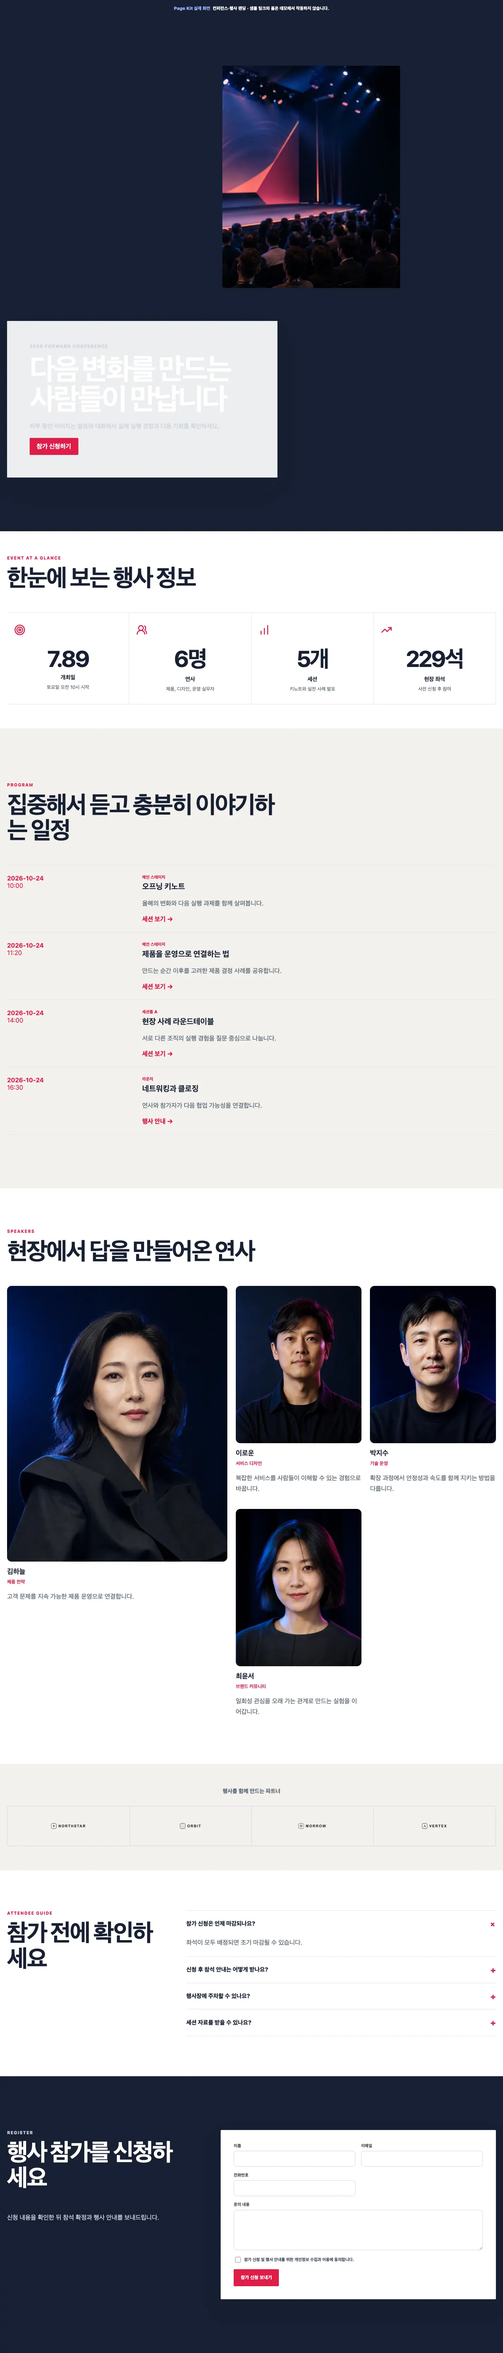
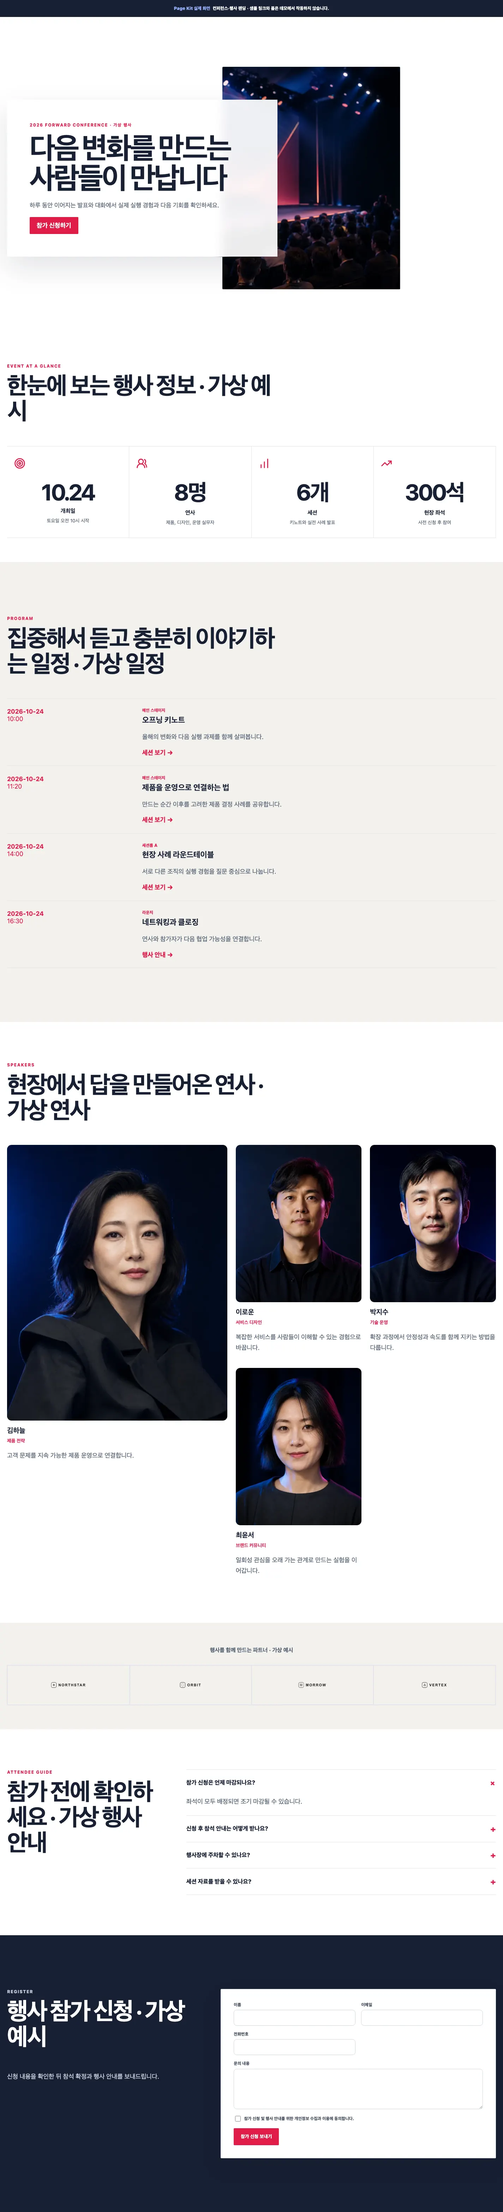
task(phase7-f-pagekits-scoped-20260901): submit worktree changes

diff --git a/resources/store/dist/demos/event-launch.html b/resources/store/dist/demos/event-launch.html
@@ -1,9 +1,9 @@
 <div class="g7pb-document-theme g7pb-theme-mode-light g7pb-theme-palette-rose g7pb-theme-font-modern g7pb-theme-radius-sharp g7pb-theme-width-wide g7pb-theme-scale-large">
-<section data-block-id="84000000-0000-4000-8000-000000000002" data-g7pb-motion="parallax-soft" data-g7pb-motion-intensity="normal" data-g7pb-motion-trigger="once" data-g7pb-motion-stagger="60" class="g7pb-block g7pb-hero-split g7pb-hero-split--left g7pb-hero-split--layout-overlap g7pb-surface--contrast g7pb-spacing--spacious g7pb-container-width--inherit g7pb-container-align--center g7pb-container-height--auto g7pb-container-vertical--start" data-testid="page-builder-rendered-block" data-block-type="hero-split"><div class="g7pb-hero-split__copy"><p class="g7pb-section-eyebrow">2026 FORWARD CONFERENCE</p><h1>다음 변화를 만드는 사람들이 만납니다</h1><p class="g7pb-hero-split__body">하루 동안 이어지는 발표와 대화에서 실제 실행 경험과 다음 기회를 확인하세요.</p><a class="g7pb-button g7pb-button--primary" href="#demo-action">참가 신청하기</a></div><figure class="g7pb-hero-split__media"><img class="g7pb-hero-split__image" src="/modules/jiwonpapa-page_builder/store/previews/event-launch-hero-event.webp" alt="발표를 앞둔 연사와 청중이 있는 현대적인 컨퍼런스 현장" loading="eager"></figure></section>
-<section data-block-id="84000000-0000-4000-8000-000000000003" data-g7pb-motion="counter" data-g7pb-motion-intensity="normal" data-g7pb-motion-trigger="once" data-g7pb-motion-stagger="60" class="g7pb-block g7pb-stats g7pb-stats--layout-strip g7pb-surface--default g7pb-spacing--compact g7pb-container-width--inherit g7pb-container-align--center g7pb-container-height--auto g7pb-container-vertical--start" data-testid="page-builder-rendered-block" data-block-type="stats"><header class="g7pb-section-heading"><p class="g7pb-section-eyebrow">EVENT AT A GLANCE</p><h2>한눈에 보는 행사 정보</h2></header><div class="g7pb-stats__grid"><article><span class="g7pb-stats__icon g7pb-stats__icon--target" data-g7pb-runtime-icon data-g7pb-icon-markup="&lt;circle cx=&quot;12&quot; cy=&quot;12&quot; r=&quot;10&quot;&gt;&lt;/circle&gt;&lt;circle cx=&quot;12&quot; cy=&quot;12&quot; r=&quot;6&quot;&gt;&lt;/circle&gt;&lt;circle cx=&quot;12&quot; cy=&quot;12&quot; r=&quot;2&quot;&gt;&lt;/circle&gt;" aria-hidden="true"></span><strong>10.24</strong><h3>개최일</h3><p>토요일 오전 10시 시작</p></article><article><span class="g7pb-stats__icon g7pb-stats__icon--users" data-g7pb-runtime-icon data-g7pb-icon-markup="&lt;path d=&quot;M18 21a8 8 0 0 0-16 0&quot;&gt;&lt;/path&gt;&lt;circle cx=&quot;10&quot; cy=&quot;8&quot; r=&quot;5&quot;&gt;&lt;/circle&gt;&lt;path d=&quot;M22 20c0-3.37-2-6.5-4-8a5 5 0 0 0-.45-8.3&quot;&gt;&lt;/path&gt;" aria-hidden="true"></span><strong>8명</strong><h3>연사</h3><p>제품, 디자인, 운영 실무자</p></article><article><span class="g7pb-stats__icon g7pb-stats__icon--chart" data-g7pb-runtime-icon data-g7pb-icon-markup="&lt;path d=&quot;M5 21v-6&quot;&gt;&lt;/path&gt;&lt;path d=&quot;M12 21V9&quot;&gt;&lt;/path&gt;&lt;path d=&quot;M19 21V3&quot;&gt;&lt;/path&gt;" aria-hidden="true"></span><strong>6개</strong><h3>세션</h3><p>키노트와 실전 사례 발표</p></article><article><span class="g7pb-stats__icon g7pb-stats__icon--trend" data-g7pb-runtime-icon data-g7pb-icon-markup="&lt;path d=&quot;M16 7h6v6&quot;&gt;&lt;/path&gt;&lt;path d=&quot;m22 7-8.5 8.5-5-5L2 17&quot;&gt;&lt;/path&gt;" aria-hidden="true"></span><strong>300석</strong><h3>현장 좌석</h3><p>사전 신청 후 참여</p></article></div></section>
-<section data-block-id="84000000-0000-4000-8000-000000000004" data-g7pb-motion="stagger" data-g7pb-motion-intensity="normal" data-g7pb-motion-trigger="once" data-g7pb-motion-stagger="100" class="g7pb-block g7pb-events g7pb-events--agenda g7pb-surface--soft g7pb-spacing--spacious g7pb-container-width--inherit g7pb-container-align--center g7pb-container-height--auto g7pb-container-vertical--start" data-testid="page-builder-rendered-block" data-block-type="event-schedule"><header class="g7pb-section-heading"><p class="g7pb-section-eyebrow">PROGRAM</p><h2>집중해서 듣고 충분히 이야기하는 일정</h2></header><ol><li><time datetime="2026-10-24T10:00"><strong>2026-10-24</strong><span>10:00</span></time><article><p class="g7pb-events__location">메인 스테이지</p><h3>오프닝 키노트</h3><p>올해의 변화와 다음 실행 과제를 함께 살펴봅니다.</p><a href="#demo-action">세션 보기 <span aria-hidden="true">→</span></a></article></li><li><time datetime="2026-10-24T11:20"><strong>2026-10-24</strong><span>11:20</span></time><article><p class="g7pb-events__location">메인 스테이지</p><h3>제품을 운영으로 연결하는 법</h3><p>만드는 순간 이후를 고려한 제품 결정 사례를 공유합니다.</p><a href="#demo-action">세션 보기 <span aria-hidden="true">→</span></a></article></li><li><time datetime="2026-10-24T14:00"><strong>2026-10-24</strong><span>14:00</span></time><article><p class="g7pb-events__location">세션룸 A</p><h3>현장 사례 라운드테이블</h3><p>서로 다른 조직의 실행 경험을 질문 중심으로 나눕니다.</p><a href="#demo-action">세션 보기 <span aria-hidden="true">→</span></a></article></li><li><time datetime="2026-10-24T16:30"><strong>2026-10-24</strong><span>16:30</span></time><article><p class="g7pb-events__location">라운지</p><h3>네트워킹과 클로징</h3><p>연사와 참가자가 다음 협업 가능성을 연결합니다.</p><a href="#demo-action">행사 안내 <span aria-hidden="true">→</span></a></article></li></ol></section>
-<section data-block-id="84000000-0000-4000-8000-000000000005" data-g7pb-motion="stagger" data-g7pb-motion-intensity="subtle" data-g7pb-motion-trigger="once" data-g7pb-motion-stagger="60" class="g7pb-block g7pb-team g7pb-team--layout-featured g7pb-surface--default g7pb-spacing--normal g7pb-container-width--inherit g7pb-container-align--center g7pb-container-height--auto g7pb-container-vertical--start" data-testid="page-builder-rendered-block" data-block-type="team"><header class="g7pb-section-heading"><p class="g7pb-section-eyebrow">SPEAKERS</p><h2>현장에서 답을 만들어온 연사</h2></header><div class="g7pb-team__grid"><article><figure><img class="g7pb-team__image" src="/modules/jiwonpapa-page_builder/store/previews/event-launch-speaker-founder.webp" alt="제품 전략 연사 김하늘" loading="lazy"></figure><h3>김하늘</h3><strong>제품 전략</strong><p>고객 문제를 지속 가능한 제품 운영으로 연결합니다.</p></article><article><figure><img class="g7pb-team__image" src="/modules/jiwonpapa-page_builder/store/previews/event-launch-speaker-design.webp" alt="서비스 디자인 연사 이로운" loading="lazy"></figure><h3>이로운</h3><strong>서비스 디자인</strong><p>복잡한 서비스를 사람들이 이해할 수 있는 경험으로 바꿉니다.</p></article><article><figure><img class="g7pb-team__image" src="/modules/jiwonpapa-page_builder/store/previews/event-launch-speaker-platform.webp" alt="기술 운영 연사 박지수" loading="lazy"></figure><h3>박지수</h3><strong>기술 운영</strong><p>확장 과정에서 안정성과 속도를 함께 지키는 방법을 다룹니다.</p></article><article><figure><img class="g7pb-team__image" src="/modules/jiwonpapa-page_builder/store/previews/event-launch-speaker-creative.webp" alt="브랜드 커뮤니티 연사 최윤서" loading="lazy"></figure><h3>최윤서</h3><strong>브랜드 커뮤니티</strong><p>일회성 관심을 오래 가는 관계로 만드는 실험을 이어갑니다.</p></article></div></section>
-<section data-block-id="84000000-0000-4000-8000-000000000006" data-g7pb-motion="stagger" data-g7pb-motion-intensity="subtle" data-g7pb-motion-trigger="once" data-g7pb-motion-stagger="60" class="g7pb-block g7pb-logo-cloud g7pb-logo-cloud--layout-grid g7pb-surface--soft g7pb-spacing--compact g7pb-container-width--inherit g7pb-container-align--center g7pb-container-height--auto g7pb-container-vertical--start" data-testid="page-builder-rendered-block" data-block-type="logo-cloud"><h2>행사를 함께 만드는 파트너</h2><ul><li><img class="g7pb-logo-cloud__image" src="/modules/jiwonpapa-page_builder/store/previews/event-launch-partner-northstar.png" alt="샘플 파트너 Northstar" loading="lazy"></li><li><img class="g7pb-logo-cloud__image" src="/modules/jiwonpapa-page_builder/store/previews/event-launch-partner-orbit.png" alt="샘플 파트너 Orbit" loading="lazy"></li><li><img class="g7pb-logo-cloud__image" src="/modules/jiwonpapa-page_builder/store/previews/event-launch-partner-morrow.png" alt="샘플 파트너 Morrow" loading="lazy"></li><li><img class="g7pb-logo-cloud__image" src="/modules/jiwonpapa-page_builder/store/previews/event-launch-partner-vertex.png" alt="샘플 파트너 Vertex" loading="lazy"></li></ul></section>
-<section data-block-id="84000000-0000-4000-8000-000000000007" data-g7pb-motion="reveal" data-g7pb-motion-intensity="subtle" data-g7pb-motion-trigger="once" data-g7pb-motion-stagger="100" class="g7pb-block g7pb-faq g7pb-surface--default g7pb-spacing--normal g7pb-container-width--inherit g7pb-container-align--center g7pb-container-height--auto g7pb-container-vertical--start" data-testid="page-builder-rendered-block" data-block-type="faq-accordion" data-g7pb-accordion data-g7pb-accordion-behavior="single"><header class="g7pb-section-heading"><p class="g7pb-section-eyebrow">ATTENDEE GUIDE</p><h2>참가 전에 확인하세요</h2></header><div class="g7pb-faq__items"><div class="g7pb-faq__item" data-g7pb-accordion-item data-g7pb-open="true"><div class="g7pb-faq__trigger" role="button" tabindex="0" data-g7pb-accordion-trigger aria-expanded="true"><span>참가 신청은 언제 마감되나요?</span><i aria-hidden="true">+</i></div><div class="g7pb-faq__answer" data-g7pb-accordion-panel><p>좌석이 모두 배정되면 조기 마감될 수 있습니다.</p></div></div><div class="g7pb-faq__item" data-g7pb-accordion-item data-g7pb-open="false"><div class="g7pb-faq__trigger" role="button" tabindex="0" data-g7pb-accordion-trigger aria-expanded="false"><span>신청 후 참석 안내는 어떻게 받나요?</span><i aria-hidden="true">+</i></div><div class="g7pb-faq__answer" data-g7pb-accordion-panel><p>신청 시 남긴 연락처로 확정 안내와 행사 준비 사항을 전달합니다.</p></div></div><div class="g7pb-faq__item" data-g7pb-accordion-item data-g7pb-open="false"><div class="g7pb-faq__trigger" role="button" tabindex="0" data-g7pb-accordion-trigger aria-expanded="false"><span>행사장에 주차할 수 있나요?</span><i aria-hidden="true">+</i></div><div class="g7pb-faq__answer" data-g7pb-accordion-panel><p>주차 공간이 제한되어 대중교통 이용을 권장합니다.</p></div></div><div class="g7pb-faq__item" data-g7pb-accordion-item data-g7pb-open="false"><div class="g7pb-faq__trigger" role="button" tabindex="0" data-g7pb-accordion-trigger aria-expanded="false"><span>세션 자료를 받을 수 있나요?</span><i aria-hidden="true">+</i></div><div class="g7pb-faq__answer" data-g7pb-accordion-panel><p>공개에 동의한 발표 자료는 행사 종료 후 참가자에게 안내합니다.</p></div></div></div></section>
-<section data-block-id="84000000-0000-4000-8000-000000000008" data-g7pb-motion="reveal" data-g7pb-motion-intensity="normal" data-g7pb-motion-trigger="once" data-g7pb-motion-stagger="60" class="g7pb-block g7pb-inquiry g7pb-surface--contrast g7pb-spacing--spacious g7pb-container-width--inherit g7pb-container-align--center g7pb-container-height--auto g7pb-container-vertical--start" data-testid="page-builder-rendered-block" data-block-type="inquiry-form"><div class="g7pb-inquiry__intro"><header class="g7pb-section-heading"><p class="g7pb-section-eyebrow">REGISTER</p><h2>행사 참가를 신청하세요</h2></header><p>신청 내용을 확인한 뒤 참석 확정과 행사 안내를 보내드립니다.</p></div><div class="g7pb-inquiry-form" data-g7pb-inquiry-host data-g7pb-demo-form data-g7pb-form-action="/pages/event-launch/inquiries" data-g7pb-form-kind="application" data-g7pb-success-message="참가 신청이 접수되었습니다. 확인 후 안내드리겠습니다." data-g7pb-privacy-label="참가 신청 및 행사 안내를 위한 개인정보 수집과 이용에 동의합니다." data-g7pb-submit-label="참가 신청 보내기" data-g7pb-show-phone="true" data-g7pb-show-subject="false"><span data-g7pb-form-control="input" data-g7pb-control-type="hidden" data-g7pb-control-name="form_kind" data-g7pb-control-value="application"></span><span data-g7pb-form-control="input" data-g7pb-control-type="hidden" data-g7pb-control-name="block_instance_id"></span><span data-g7pb-form-control="input" data-g7pb-control-type="hidden" data-g7pb-control-name="started_at"></span><label class="g7pb-inquiry-form__honeypot" aria-hidden="true"><span>웹사이트</span><span data-g7pb-form-control="input" data-g7pb-control-type="text" data-g7pb-control-name="website" data-g7pb-control-tabindex="-1" data-g7pb-control-autocomplete="off"></span></label><label><span>이름</span><span data-g7pb-form-control="input" data-g7pb-control-type="text" data-g7pb-control-name="name" data-g7pb-control-maxlength="120" data-g7pb-control-autocomplete="name" data-g7pb-control-required="true"></span></label><label><span>이메일</span><span data-g7pb-form-control="input" data-g7pb-control-type="email" data-g7pb-control-name="email" data-g7pb-control-maxlength="320" data-g7pb-control-autocomplete="email" data-g7pb-control-required="true"></span></label><label><span>전화번호</span><span data-g7pb-form-control="input" data-g7pb-control-type="tel" data-g7pb-control-name="phone" data-g7pb-control-maxlength="40" data-g7pb-control-autocomplete="tel"></span></label><label class="g7pb-inquiry-form__wide"><span>문의 내용</span><span data-g7pb-form-control="textarea" data-g7pb-control-name="message" data-g7pb-control-maxlength="5000" data-g7pb-control-rows="6" data-g7pb-control-required="true"></span></label><label class="g7pb-inquiry-form__consent"><span data-g7pb-form-control="input" data-g7pb-control-type="checkbox" data-g7pb-control-name="privacy" data-g7pb-control-value="1" data-g7pb-control-required="true"></span><span data-g7pb-privacy-copy>참가 신청 및 행사 안내를 위한 개인정보 수집과 이용에 동의합니다.</span></label><div class="g7pb-inquiry-form__footer"><span data-g7pb-form-control="button" data-g7pb-control-type="submit" data-g7pb-submit-copy>참가 신청 보내기</span><p role="status" aria-live="polite" data-g7pb-form-status></p></div></div></section>
+<section data-block-id="84000000-0000-4000-8000-000000000002" data-g7pb-motion="parallax-soft" data-g7pb-motion-intensity="normal" data-g7pb-motion-trigger="once" data-g7pb-motion-stagger="60" class="g7pb-block g7pb-hero-split g7pb-hero-split--left g7pb-hero-split--layout-overlap g7pb-surface--default g7pb-spacing--spacious g7pb-container-width--inherit g7pb-container-align--center g7pb-container-height--auto g7pb-container-vertical--start" data-testid="page-builder-rendered-block" data-block-type="hero-split"><div class="g7pb-hero-split__copy"><p class="g7pb-section-eyebrow">2026 FORWARD CONFERENCE · 가상 행사</p><h1>다음 변화를 만드는 사람들이 만납니다</h1><p class="g7pb-hero-split__body">하루 동안 이어지는 발표와 대화에서 실제 실행 경험과 다음 기회를 확인하세요.</p><a class="g7pb-button g7pb-button--primary" href="/contact?event=forward-2026">참가 신청하기</a></div><figure class="g7pb-hero-split__media"><img class="g7pb-hero-split__image" src="/modules/jiwonpapa-page_builder/store/previews/event-launch-hero-event.webp" alt="발표를 앞둔 연사와 청중이 있는 현대적인 컨퍼런스 현장" loading="eager"></figure></section>
+<section data-block-id="84000000-0000-4000-8000-000000000003" data-g7pb-motion="reveal" data-g7pb-motion-intensity="normal" data-g7pb-motion-trigger="once" data-g7pb-motion-stagger="60" class="g7pb-block g7pb-stats g7pb-stats--layout-strip g7pb-surface--default g7pb-spacing--compact g7pb-container-width--inherit g7pb-container-align--center g7pb-container-height--auto g7pb-container-vertical--start" data-testid="page-builder-rendered-block" data-block-type="stats"><header class="g7pb-section-heading"><p class="g7pb-section-eyebrow">EVENT AT A GLANCE</p><h2>한눈에 보는 행사 정보 · 가상 예시</h2></header><div class="g7pb-stats__grid"><article><span class="g7pb-stats__icon g7pb-stats__icon--target" data-g7pb-runtime-icon data-g7pb-icon-markup="&lt;circle cx=&quot;12&quot; cy=&quot;12&quot; r=&quot;10&quot;&gt;&lt;/circle&gt;&lt;circle cx=&quot;12&quot; cy=&quot;12&quot; r=&quot;6&quot;&gt;&lt;/circle&gt;&lt;circle cx=&quot;12&quot; cy=&quot;12&quot; r=&quot;2&quot;&gt;&lt;/circle&gt;" aria-hidden="true"></span><strong>10.24</strong><h3>개최일</h3><p>토요일 오전 10시 시작</p></article><article><span class="g7pb-stats__icon g7pb-stats__icon--users" data-g7pb-runtime-icon data-g7pb-icon-markup="&lt;path d=&quot;M18 21a8 8 0 0 0-16 0&quot;&gt;&lt;/path&gt;&lt;circle cx=&quot;10&quot; cy=&quot;8&quot; r=&quot;5&quot;&gt;&lt;/circle&gt;&lt;path d=&quot;M22 20c0-3.37-2-6.5-4-8a5 5 0 0 0-.45-8.3&quot;&gt;&lt;/path&gt;" aria-hidden="true"></span><strong>8명</strong><h3>연사</h3><p>제품, 디자인, 운영 실무자</p></article><article><span class="g7pb-stats__icon g7pb-stats__icon--chart" data-g7pb-runtime-icon data-g7pb-icon-markup="&lt;path d=&quot;M5 21v-6&quot;&gt;&lt;/path&gt;&lt;path d=&quot;M12 21V9&quot;&gt;&lt;/path&gt;&lt;path d=&quot;M19 21V3&quot;&gt;&lt;/path&gt;" aria-hidden="true"></span><strong>6개</strong><h3>세션</h3><p>키노트와 실전 사례 발표</p></article><article><span class="g7pb-stats__icon g7pb-stats__icon--trend" data-g7pb-runtime-icon data-g7pb-icon-markup="&lt;path d=&quot;M16 7h6v6&quot;&gt;&lt;/path&gt;&lt;path d=&quot;m22 7-8.5 8.5-5-5L2 17&quot;&gt;&lt;/path&gt;" aria-hidden="true"></span><strong>300석</strong><h3>현장 좌석</h3><p>사전 신청 후 참여</p></article></div></section>
+<section data-block-id="84000000-0000-4000-8000-000000000004" data-g7pb-motion="stagger" data-g7pb-motion-intensity="normal" data-g7pb-motion-trigger="once" data-g7pb-motion-stagger="100" class="g7pb-block g7pb-events g7pb-events--agenda g7pb-surface--soft g7pb-spacing--spacious g7pb-container-width--inherit g7pb-container-align--center g7pb-container-height--auto g7pb-container-vertical--start" data-testid="page-builder-rendered-block" data-block-type="event-schedule"><header class="g7pb-section-heading"><p class="g7pb-section-eyebrow">PROGRAM</p><h2>집중해서 듣고 충분히 이야기하는 일정 · 가상 일정</h2></header><ol><li><time datetime="2026-10-24T10:00"><strong>2026-10-24</strong><span>10:00</span></time><article><p class="g7pb-events__location">메인 스테이지</p><h3>오프닝 키노트</h3><p>올해의 변화와 다음 실행 과제를 함께 살펴봅니다.</p><a href="/contact?event=forward-2026&amp;session=opening">세션 보기 <span aria-hidden="true">→</span></a></article></li><li><time datetime="2026-10-24T11:20"><strong>2026-10-24</strong><span>11:20</span></time><article><p class="g7pb-events__location">메인 스테이지</p><h3>제품을 운영으로 연결하는 법</h3><p>만드는 순간 이후를 고려한 제품 결정 사례를 공유합니다.</p><a href="/contact?event=forward-2026&amp;session=operations">세션 보기 <span aria-hidden="true">→</span></a></article></li><li><time datetime="2026-10-24T14:00"><strong>2026-10-24</strong><span>14:00</span></time><article><p class="g7pb-events__location">세션룸 A</p><h3>현장 사례 라운드테이블</h3><p>서로 다른 조직의 실행 경험을 질문 중심으로 나눕니다.</p><a href="/contact?event=forward-2026&amp;session=roundtable">세션 보기 <span aria-hidden="true">→</span></a></article></li><li><time datetime="2026-10-24T16:30"><strong>2026-10-24</strong><span>16:30</span></time><article><p class="g7pb-events__location">라운지</p><h3>네트워킹과 클로징</h3><p>연사와 참가자가 다음 협업 가능성을 연결합니다.</p><a href="/contact?event=forward-2026&amp;session=closing">행사 안내 <span aria-hidden="true">→</span></a></article></li></ol></section>
+<section data-block-id="84000000-0000-4000-8000-000000000005" data-g7pb-motion="stagger" data-g7pb-motion-intensity="subtle" data-g7pb-motion-trigger="once" data-g7pb-motion-stagger="60" class="g7pb-block g7pb-team g7pb-team--layout-featured g7pb-surface--default g7pb-spacing--normal g7pb-container-width--inherit g7pb-container-align--center g7pb-container-height--auto g7pb-container-vertical--start" data-testid="page-builder-rendered-block" data-block-type="team"><header class="g7pb-section-heading"><p class="g7pb-section-eyebrow">SPEAKERS</p><h2>현장에서 답을 만들어온 연사 · 가상 연사</h2></header><div class="g7pb-team__grid"><article><figure><img class="g7pb-team__image" src="/modules/jiwonpapa-page_builder/store/previews/event-launch-speaker-founder.webp" alt="제품 전략 연사 김하늘" loading="lazy"></figure><h3>김하늘</h3><strong>제품 전략</strong><p>고객 문제를 지속 가능한 제품 운영으로 연결합니다.</p></article><article><figure><img class="g7pb-team__image" src="/modules/jiwonpapa-page_builder/store/previews/event-launch-speaker-design.webp" alt="서비스 디자인 연사 이로운" loading="lazy"></figure><h3>이로운</h3><strong>서비스 디자인</strong><p>복잡한 서비스를 사람들이 이해할 수 있는 경험으로 바꿉니다.</p></article><article><figure><img class="g7pb-team__image" src="/modules/jiwonpapa-page_builder/store/previews/event-launch-speaker-platform.webp" alt="기술 운영 연사 박지수" loading="lazy"></figure><h3>박지수</h3><strong>기술 운영</strong><p>확장 과정에서 안정성과 속도를 함께 지키는 방법을 다룹니다.</p></article><article><figure><img class="g7pb-team__image" src="/modules/jiwonpapa-page_builder/store/previews/event-launch-speaker-creative.webp" alt="브랜드 커뮤니티 연사 최윤서" loading="lazy"></figure><h3>최윤서</h3><strong>브랜드 커뮤니티</strong><p>일회성 관심을 오래 가는 관계로 만드는 실험을 이어갑니다.</p></article></div></section>
+<section data-block-id="84000000-0000-4000-8000-000000000006" data-g7pb-motion="stagger" data-g7pb-motion-intensity="subtle" data-g7pb-motion-trigger="once" data-g7pb-motion-stagger="60" class="g7pb-block g7pb-logo-cloud g7pb-logo-cloud--layout-grid g7pb-surface--soft g7pb-spacing--compact g7pb-container-width--inherit g7pb-container-align--center g7pb-container-height--auto g7pb-container-vertical--start" data-testid="page-builder-rendered-block" data-block-type="logo-cloud"><h2>행사를 함께 만드는 파트너 · 가상 예시</h2><ul><li><img class="g7pb-logo-cloud__image" src="/modules/jiwonpapa-page_builder/store/previews/event-launch-partner-northstar.png" alt="샘플 파트너 Northstar" loading="lazy"></li><li><img class="g7pb-logo-cloud__image" src="/modules/jiwonpapa-page_builder/store/previews/event-launch-partner-orbit.png" alt="샘플 파트너 Orbit" loading="lazy"></li><li><img class="g7pb-logo-cloud__image" src="/modules/jiwonpapa-page_builder/store/previews/event-launch-partner-morrow.png" alt="샘플 파트너 Morrow" loading="lazy"></li><li><img class="g7pb-logo-cloud__image" src="/modules/jiwonpapa-page_builder/store/previews/event-launch-partner-vertex.png" alt="샘플 파트너 Vertex" loading="lazy"></li></ul></section>
+<section data-block-id="84000000-0000-4000-8000-000000000007" data-g7pb-motion="reveal" data-g7pb-motion-intensity="subtle" data-g7pb-motion-trigger="once" data-g7pb-motion-stagger="100" class="g7pb-block g7pb-faq g7pb-surface--default g7pb-spacing--normal g7pb-container-width--inherit g7pb-container-align--center g7pb-container-height--auto g7pb-container-vertical--start" data-testid="page-builder-rendered-block" data-block-type="faq-accordion" data-g7pb-accordion data-g7pb-accordion-behavior="single"><header class="g7pb-section-heading"><p class="g7pb-section-eyebrow">ATTENDEE GUIDE</p><h2>참가 전에 확인하세요 · 가상 행사 안내</h2></header><div class="g7pb-faq__items"><div class="g7pb-faq__item" data-g7pb-accordion-item data-g7pb-open="true"><div class="g7pb-faq__trigger" role="button" tabindex="0" data-g7pb-accordion-trigger aria-expanded="true"><span>참가 신청은 언제 마감되나요?</span><i aria-hidden="true">+</i></div><div class="g7pb-faq__answer" data-g7pb-accordion-panel><p>좌석이 모두 배정되면 조기 마감될 수 있습니다.</p></div></div><div class="g7pb-faq__item" data-g7pb-accordion-item data-g7pb-open="false"><div class="g7pb-faq__trigger" role="button" tabindex="0" data-g7pb-accordion-trigger aria-expanded="false"><span>신청 후 참석 안내는 어떻게 받나요?</span><i aria-hidden="true">+</i></div><div class="g7pb-faq__answer" data-g7pb-accordion-panel><p>신청 시 남긴 연락처로 확정 안내와 행사 준비 사항을 전달합니다.</p></div></div><div class="g7pb-faq__item" data-g7pb-accordion-item data-g7pb-open="false"><div class="g7pb-faq__trigger" role="button" tabindex="0" data-g7pb-accordion-trigger aria-expanded="false"><span>행사장에 주차할 수 있나요?</span><i aria-hidden="true">+</i></div><div class="g7pb-faq__answer" data-g7pb-accordion-panel><p>주차 공간이 제한되어 대중교통 이용을 권장합니다.</p></div></div><div class="g7pb-faq__item" data-g7pb-accordion-item data-g7pb-open="false"><div class="g7pb-faq__trigger" role="button" tabindex="0" data-g7pb-accordion-trigger aria-expanded="false"><span>세션 자료를 받을 수 있나요?</span><i aria-hidden="true">+</i></div><div class="g7pb-faq__answer" data-g7pb-accordion-panel><p>공개에 동의한 발표 자료는 행사 종료 후 참가자에게 안내합니다.</p></div></div></div></section>
+<section data-block-id="84000000-0000-4000-8000-000000000008" data-g7pb-motion="reveal" data-g7pb-motion-intensity="normal" data-g7pb-motion-trigger="once" data-g7pb-motion-stagger="60" class="g7pb-block g7pb-inquiry g7pb-surface--contrast g7pb-spacing--spacious g7pb-container-width--inherit g7pb-container-align--center g7pb-container-height--auto g7pb-container-vertical--start" data-testid="page-builder-rendered-block" data-block-type="inquiry-form"><div class="g7pb-inquiry__intro"><header class="g7pb-section-heading"><p class="g7pb-section-eyebrow">REGISTER</p><h2>행사 참가 신청 · 가상 예시</h2></header><p>신청 내용을 확인한 뒤 참석 확정과 행사 안내를 보내드립니다.</p></div><div class="g7pb-inquiry-form" data-g7pb-inquiry-host data-g7pb-demo-form data-g7pb-form-action="/pages/event-launch/inquiries" data-g7pb-form-kind="application" data-g7pb-success-message="참가 신청이 접수되었습니다. 확인 후 안내드리겠습니다." data-g7pb-privacy-label="참가 신청 및 행사 안내를 위한 개인정보 수집과 이용에 동의합니다." data-g7pb-submit-label="참가 신청 보내기" data-g7pb-show-phone="true" data-g7pb-show-subject="false"><span data-g7pb-form-control="input" data-g7pb-control-type="hidden" data-g7pb-control-name="form_kind" data-g7pb-control-value="application"></span><span data-g7pb-form-control="input" data-g7pb-control-type="hidden" data-g7pb-control-name="block_instance_id"></span><span data-g7pb-form-control="input" data-g7pb-control-type="hidden" data-g7pb-control-name="started_at"></span><label class="g7pb-inquiry-form__honeypot" aria-hidden="true"><span>웹사이트</span><span data-g7pb-form-control="input" data-g7pb-control-type="text" data-g7pb-control-name="website" data-g7pb-control-tabindex="-1" data-g7pb-control-autocomplete="off"></span></label><label><span>이름</span><span data-g7pb-form-control="input" data-g7pb-control-type="text" data-g7pb-control-name="name" data-g7pb-control-maxlength="120" data-g7pb-control-autocomplete="name" data-g7pb-control-required="true"></span></label><label><span>이메일</span><span data-g7pb-form-control="input" data-g7pb-control-type="email" data-g7pb-control-name="email" data-g7pb-control-maxlength="320" data-g7pb-control-autocomplete="email" data-g7pb-control-required="true"></span></label><label><span>전화번호</span><span data-g7pb-form-control="input" data-g7pb-control-type="tel" data-g7pb-control-name="phone" data-g7pb-control-maxlength="40" data-g7pb-control-autocomplete="tel"></span></label><label class="g7pb-inquiry-form__wide"><span>문의 내용</span><span data-g7pb-form-control="textarea" data-g7pb-control-name="message" data-g7pb-control-maxlength="5000" data-g7pb-control-rows="6" data-g7pb-control-required="true"></span></label><label class="g7pb-inquiry-form__consent"><span data-g7pb-form-control="input" data-g7pb-control-type="checkbox" data-g7pb-control-name="privacy" data-g7pb-control-value="1" data-g7pb-control-required="true"></span><span data-g7pb-privacy-copy>참가 신청 및 행사 안내를 위한 개인정보 수집과 이용에 동의합니다.</span></label><div class="g7pb-inquiry-form__footer"><span data-g7pb-form-control="button" data-g7pb-control-type="submit" data-g7pb-submit-copy>참가 신청 보내기</span><p role="status" aria-live="polite" data-g7pb-form-status></p></div></div></section>
 </div>

diff --git a/resources/store/dist/demos/company-launch.html b/resources/store/dist/demos/company-launch.html
@@ -1,8 +1,8 @@
 <div class="g7pb-document-theme g7pb-theme-mode-light g7pb-theme-palette-blue g7pb-theme-font-modern g7pb-theme-radius-soft g7pb-theme-width-standard g7pb-theme-scale-balanced">
-<section data-block-id="81000000-0000-4000-8000-000000000002" data-g7pb-motion="parallax-soft" data-g7pb-motion-intensity="subtle" data-g7pb-motion-trigger="once" data-g7pb-motion-stagger="100" class="g7pb-block g7pb-hero-split g7pb-hero-split--right g7pb-hero-split--layout-screenshot g7pb-surface--default g7pb-spacing--spacious g7pb-container-width--inherit g7pb-container-align--center g7pb-container-height--auto g7pb-container-vertical--start" data-testid="page-builder-rendered-block" data-block-type="hero-split"><div class="g7pb-hero-split__copy"><p class="g7pb-section-eyebrow">회사 소개</p><h1>고객의 다음 성장을 함께 만듭니다</h1><p class="g7pb-hero-split__body">복잡한 문제를 이해하기 쉬운 제품과 서비스로 바꾸는 팀을 소개합니다.</p><a class="g7pb-button g7pb-button--primary" href="#demo-action">서비스 보기</a></div><figure class="g7pb-hero-split__media"><img class="g7pb-hero-split__image" src="/modules/jiwonpapa-page_builder/store/previews/company-launch-hero-team.webp" alt="밝은 스튜디오에서 프로젝트를 함께 검토하는 세 명의 팀원" loading="eager"></figure></section>
+<section data-block-id="81000000-0000-4000-8000-000000000002" data-g7pb-motion="parallax-soft" data-g7pb-motion-intensity="subtle" data-g7pb-motion-trigger="once" data-g7pb-motion-stagger="100" class="g7pb-block g7pb-hero-split g7pb-hero-split--right g7pb-hero-split--layout-screenshot g7pb-surface--default g7pb-spacing--spacious g7pb-container-width--inherit g7pb-container-align--center g7pb-container-height--auto g7pb-container-vertical--start" data-testid="page-builder-rendered-block" data-block-type="hero-split"><div class="g7pb-hero-split__copy"><p class="g7pb-section-eyebrow">회사 소개</p><h1>고객의 다음 성장을 함께 만듭니다</h1><p class="g7pb-hero-split__body">복잡한 문제를 이해하기 쉬운 제품과 서비스로 바꾸는 팀을 소개합니다.</p><a class="g7pb-button g7pb-button--primary" href="/services">서비스 보기</a></div><figure class="g7pb-hero-split__media"><img class="g7pb-hero-split__image" src="/modules/jiwonpapa-page_builder/store/previews/company-launch-hero-team.webp" alt="밝은 스튜디오에서 프로젝트를 함께 검토하는 세 명의 팀원" loading="eager"></figure></section>
 <section data-block-id="81000000-0000-4000-8000-000000000006" data-g7pb-motion="stagger" data-g7pb-motion-intensity="subtle" data-g7pb-motion-trigger="once" data-g7pb-motion-stagger="100" class="g7pb-block g7pb-features g7pb-features--layout-bento g7pb-surface--soft g7pb-spacing--normal g7pb-container-width--inherit g7pb-container-align--center g7pb-container-height--auto g7pb-container-vertical--start" data-testid="page-builder-rendered-block" data-block-type="features"><h2 class="g7pb-features__title">성장에 필요한 흐름을 한 팀처럼 연결합니다</h2><div class="g7pb-features__grid"><article class="g7pb-features__item"><span class="g7pb-features__icon g7pb-icon--sparkles" data-g7pb-runtime-icon data-g7pb-icon-markup="&lt;path d=&quot;M11.017 2.814a1 1 0 0 1 1.966 0l1.051 5.558a2 2 0 0 0 1.594 1.594l5.558 1.051a1 1 0 0 1 0 1.966l-5.558 1.051a2 2 0 0 0-1.594 1.594l-1.051 5.558a1 1 0 0 1-1.966 0l-1.051-5.558a2 2 0 0 0-1.594-1.594l-5.558-1.051a1 1 0 0 1 0-1.966l5.558-1.051a2 2 0 0 0 1.594-1.594z&quot;&gt;&lt;/path&gt;&lt;path d=&quot;M20 2v4&quot;&gt;&lt;/path&gt;&lt;path d=&quot;M22 4h-4&quot;&gt;&lt;/path&gt;&lt;circle cx=&quot;4&quot; cy=&quot;20&quot; r=&quot;2&quot;&gt;&lt;/circle&gt;" aria-hidden="true"></span><h3>핵심 목표 정렬</h3><p>성과 기준과 우선순위를 먼저 합의해 프로젝트의 방향을 분명하게 만듭니다.</p></article><article class="g7pb-features__item"><span class="g7pb-features__icon g7pb-icon--layers" data-g7pb-runtime-icon data-g7pb-icon-markup="&lt;path d=&quot;M12.83 2.18a2 2 0 0 0-1.66 0L2.6 6.08a1 1 0 0 0 0 1.83l8.58 3.91a2 2 0 0 0 1.66 0l8.58-3.9a1 1 0 0 0 0-1.83z&quot;&gt;&lt;/path&gt;&lt;path d=&quot;M2 12a1 1 0 0 0 .58.91l8.6 3.91a2 2 0 0 0 1.65 0l8.58-3.9A1 1 0 0 0 22 12&quot;&gt;&lt;/path&gt;&lt;path d=&quot;M2 17a1 1 0 0 0 .58.91l8.6 3.91a2 2 0 0 0 1.65 0l8.58-3.9A1 1 0 0 0 22 17&quot;&gt;&lt;/path&gt;" aria-hidden="true"></span><h3>기획부터 운영까지</h3><p>전략, 디자인, 개발과 운영이 끊기지 않도록 하나의 실행 흐름으로 연결합니다.</p></article><article class="g7pb-features__item"><span class="g7pb-features__icon g7pb-icon--shield" data-g7pb-runtime-icon data-g7pb-icon-markup="&lt;path d=&quot;M20 13c0 5-3.5 7.5-7.66 8.95a1 1 0 0 1-.67-.01C7.5 20.5 4 18 4 13V6a1 1 0 0 1 1-1c2 0 4.5-1.2 6.24-2.72a1.17 1.17 0 0 1 1.52 0C14.51 3.81 17 5 19 5a1 1 0 0 1 1 1z&quot;&gt;&lt;/path&gt;&lt;path d=&quot;m9 12 2 2 4-4&quot;&gt;&lt;/path&gt;" aria-hidden="true"></span><h3>지속 가능한 결과</h3><p>완료 이후에도 내부 팀이 이해하고 개선할 수 있는 기준과 자산을 남깁니다.</p></article></div></section>
-<section data-block-id="81000000-0000-4000-8000-000000000003" data-g7pb-motion="counter" data-g7pb-motion-intensity="subtle" data-g7pb-motion-trigger="once" data-g7pb-motion-stagger="100" class="g7pb-block g7pb-stats g7pb-stats--layout-editorial g7pb-surface--default g7pb-spacing--normal g7pb-container-width--inherit g7pb-container-align--center g7pb-container-height--auto g7pb-container-vertical--start" data-testid="page-builder-rendered-block" data-block-type="stats"><header class="g7pb-section-heading"><p class="g7pb-section-eyebrow">성과</p><h2>숫자로 보는 우리의 경험</h2></header><div class="g7pb-stats__grid"><article><span class="g7pb-stats__icon g7pb-stats__icon--users" data-g7pb-runtime-icon data-g7pb-icon-markup="&lt;path d=&quot;M18 21a8 8 0 0 0-16 0&quot;&gt;&lt;/path&gt;&lt;circle cx=&quot;10&quot; cy=&quot;8&quot; r=&quot;5&quot;&gt;&lt;/circle&gt;&lt;path d=&quot;M22 20c0-3.37-2-6.5-4-8a5 5 0 0 0-.45-8.3&quot;&gt;&lt;/path&gt;" aria-hidden="true"></span><strong>120+</strong><h3>완료 프로젝트</h3><p>다양한 업종의 구축 경험</p></article><article><span class="g7pb-stats__icon g7pb-stats__icon--trend" data-g7pb-runtime-icon data-g7pb-icon-markup="&lt;path d=&quot;M16 7h6v6&quot;&gt;&lt;/path&gt;&lt;path d=&quot;m22 7-8.5 8.5-5-5L2 17&quot;&gt;&lt;/path&gt;" aria-hidden="true"></span><strong>98%</strong><h3>고객 만족</h3><p>완료 고객 설문 기준</p></article><article><span class="g7pb-stats__icon g7pb-stats__icon--target" data-g7pb-runtime-icon data-g7pb-icon-markup="&lt;circle cx=&quot;12&quot; cy=&quot;12&quot; r=&quot;10&quot;&gt;&lt;/circle&gt;&lt;circle cx=&quot;12&quot; cy=&quot;12&quot; r=&quot;6&quot;&gt;&lt;/circle&gt;&lt;circle cx=&quot;12&quot; cy=&quot;12&quot; r=&quot;2&quot;&gt;&lt;/circle&gt;" aria-hidden="true"></span><strong>7년</strong><h3>운영 경험</h3><p>기획부터 운영까지</p></article></div></section>
-<section data-block-id="81000000-0000-4000-8000-000000000004" data-g7pb-motion="stagger" data-g7pb-motion-intensity="subtle" data-g7pb-motion-trigger="once" data-g7pb-motion-stagger="100" class="g7pb-block g7pb-team g7pb-team--layout-portraits g7pb-surface--soft g7pb-spacing--normal g7pb-container-width--inherit g7pb-container-align--center g7pb-container-height--auto g7pb-container-vertical--start" data-testid="page-builder-rendered-block" data-block-type="team"><header class="g7pb-section-heading"><p class="g7pb-section-eyebrow">팀</p><h2>문제를 끝까지 해결하는 사람들</h2></header><div class="g7pb-team__grid"><article><figure><img class="g7pb-team__image" src="/modules/jiwonpapa-page_builder/store/previews/company-launch-team-product.webp" alt="밝은 스튜디오의 제품 전략가" loading="lazy"></figure><h3>김기획</h3><strong>Product</strong><p>고객의 문제를 제품 언어로 정리합니다.</p></article><article><figure><img class="g7pb-team__image" src="/modules/jiwonpapa-page_builder/store/previews/company-launch-team-design.webp" alt="밝은 스튜디오의 제품 디자이너" loading="lazy"></figure><h3>이디자인</h3><strong>Design</strong><p>복잡한 흐름을 분명한 경험으로 만듭니다.</p></article><article><figure><img class="g7pb-team__image" src="/modules/jiwonpapa-page_builder/store/previews/company-launch-team-engineering.webp" alt="밝은 스튜디오의 소프트웨어 엔지니어" loading="lazy"></figure><h3>박개발</h3><strong>Engineering</strong><p>안정적으로 확장되는 서비스를 구현합니다.</p></article></div></section>
-<section data-block-id="81000000-0000-4000-8000-000000000007" data-g7pb-motion="reveal" data-g7pb-motion-intensity="subtle" data-g7pb-motion-trigger="once" data-g7pb-motion-stagger="100" class="g7pb-block g7pb-testimonials g7pb-testimonials--wall g7pb-surface--default g7pb-spacing--normal g7pb-container-width--inherit g7pb-container-align--center g7pb-container-height--auto g7pb-container-vertical--start" data-testid="page-builder-rendered-block" data-block-type="testimonials"><header class="g7pb-section-heading"><p class="g7pb-section-eyebrow">함께 만든 변화</p><h2>팀 안에 실행 기준이 남았습니다</h2></header><div class="g7pb-testimonials__items"><blockquote><p class="g7pb-testimonials__rating" aria-label="5점 만점에 5점">★★★★★</p><div class="g7pb-testimonials__quote"><p>기획과 제작을 따로 설명하지 않아도 한 흐름으로 정리돼 의사결정이 빨라졌습니다.</p></div><footer><figure><img class="g7pb-testimonials__avatar" src="/modules/jiwonpapa-page_builder/store/previews/company-launch-customer-operations.webp" alt="고객 최민서의 프로필 사진" loading="lazy"></figure><cite><strong>최민서</strong><span class="g7pb-testimonial-role">브랜드 리드</span><i aria-hidden="true"> · </i><span class="g7pb-testimonial-company">리테일 팀</span></cite></footer></blockquote><blockquote><p class="g7pb-testimonials__rating" aria-label="5점 만점에 5점">★★★★★</p><div class="g7pb-testimonials__quote"><p>출시 이후 운영까지 고려한 기준을 함께 받아 내부 팀이 직접 개선할 수 있었습니다.</p></div><footer><figure><img class="g7pb-testimonials__avatar" src="/modules/jiwonpapa-page_builder/store/previews/company-launch-customer-founder.webp" alt="고객 정현우의 프로필 사진" loading="lazy"></figure><cite><strong>정현우</strong><span class="g7pb-testimonial-role">사업 책임자</span><i aria-hidden="true"> · </i><span class="g7pb-testimonial-company">B2B 서비스</span></cite></footer></blockquote></div></section>
-<section data-block-id="81000000-0000-4000-8000-000000000005" data-g7pb-motion="reveal" data-g7pb-motion-intensity="normal" data-g7pb-motion-trigger="once" data-g7pb-motion-stagger="100" class="g7pb-block g7pb-cta g7pb-cta--dark g7pb-cta--layout-panel g7pb-surface--contrast g7pb-spacing--spacious g7pb-container-width--inherit g7pb-container-align--center g7pb-container-height--auto g7pb-container-vertical--start" data-testid="page-builder-rendered-block" data-block-type="cta"><div class="g7pb-cta__copy"><p class="g7pb-cta__eyebrow">프로젝트 문의</p><h2 class="g7pb-cta__heading">다음 프로젝트를 시작할 준비가 되셨나요?</h2><p class="g7pb-cta__body">목표와 현재 상황을 알려주시면 필요한 범위부터 함께 정리합니다.</p></div><div class="g7pb-cta__actions"><a class="g7pb-button g7pb-button--primary" href="#demo-action">문의하기</a><a class="g7pb-button g7pb-button--secondary" href="#demo-action">로그인</a></div></section>
+<section data-block-id="81000000-0000-4000-8000-000000000003" data-g7pb-motion="reveal" data-g7pb-motion-intensity="subtle" data-g7pb-motion-trigger="once" data-g7pb-motion-stagger="100" class="g7pb-block g7pb-stats g7pb-stats--layout-editorial g7pb-surface--default g7pb-spacing--normal g7pb-container-width--inherit g7pb-container-align--center g7pb-container-height--auto g7pb-container-vertical--start" data-testid="page-builder-rendered-block" data-block-type="stats"><header class="g7pb-section-heading"><p class="g7pb-section-eyebrow">성과</p><h2>숫자로 보는 우리의 경험 · 가상 예시</h2></header><div class="g7pb-stats__grid"><article><span class="g7pb-stats__icon g7pb-stats__icon--users" data-g7pb-runtime-icon data-g7pb-icon-markup="&lt;path d=&quot;M18 21a8 8 0 0 0-16 0&quot;&gt;&lt;/path&gt;&lt;circle cx=&quot;10&quot; cy=&quot;8&quot; r=&quot;5&quot;&gt;&lt;/circle&gt;&lt;path d=&quot;M22 20c0-3.37-2-6.5-4-8a5 5 0 0 0-.45-8.3&quot;&gt;&lt;/path&gt;" aria-hidden="true"></span><strong>120+</strong><h3>완료 프로젝트</h3><p>다양한 업종의 구축 경험</p></article><article><span class="g7pb-stats__icon g7pb-stats__icon--trend" data-g7pb-runtime-icon data-g7pb-icon-markup="&lt;path d=&quot;M16 7h6v6&quot;&gt;&lt;/path&gt;&lt;path d=&quot;m22 7-8.5 8.5-5-5L2 17&quot;&gt;&lt;/path&gt;" aria-hidden="true"></span><strong>98%</strong><h3>고객 만족</h3><p>완료 고객 설문 기준</p></article><article><span class="g7pb-stats__icon g7pb-stats__icon--target" data-g7pb-runtime-icon data-g7pb-icon-markup="&lt;circle cx=&quot;12&quot; cy=&quot;12&quot; r=&quot;10&quot;&gt;&lt;/circle&gt;&lt;circle cx=&quot;12&quot; cy=&quot;12&quot; r=&quot;6&quot;&gt;&lt;/circle&gt;&lt;circle cx=&quot;12&quot; cy=&quot;12&quot; r=&quot;2&quot;&gt;&lt;/circle&gt;" aria-hidden="true"></span><strong>7년</strong><h3>운영 경험</h3><p>기획부터 운영까지</p></article></div></section>
+<section data-block-id="81000000-0000-4000-8000-000000000004" data-g7pb-motion="stagger" data-g7pb-motion-intensity="subtle" data-g7pb-motion-trigger="once" data-g7pb-motion-stagger="100" class="g7pb-block g7pb-team g7pb-team--layout-portraits g7pb-surface--soft g7pb-spacing--normal g7pb-container-width--inherit g7pb-container-align--center g7pb-container-height--auto g7pb-container-vertical--start" data-testid="page-builder-rendered-block" data-block-type="team"><header class="g7pb-section-heading"><p class="g7pb-section-eyebrow">팀</p><h2>문제를 끝까지 해결하는 사람들 · 가상 팀</h2></header><div class="g7pb-team__grid"><article><figure><img class="g7pb-team__image" src="/modules/jiwonpapa-page_builder/store/previews/company-launch-team-product.webp" alt="밝은 스튜디오의 제품 전략가" loading="lazy"></figure><h3>김기획</h3><strong>Product</strong><p>고객의 문제를 제품 언어로 정리합니다.</p></article><article><figure><img class="g7pb-team__image" src="/modules/jiwonpapa-page_builder/store/previews/company-launch-team-design.webp" alt="밝은 스튜디오의 제품 디자이너" loading="lazy"></figure><h3>이디자인</h3><strong>Design</strong><p>복잡한 흐름을 분명한 경험으로 만듭니다.</p></article><article><figure><img class="g7pb-team__image" src="/modules/jiwonpapa-page_builder/store/previews/company-launch-team-engineering.webp" alt="밝은 스튜디오의 소프트웨어 엔지니어" loading="lazy"></figure><h3>박개발</h3><strong>Engineering</strong><p>안정적으로 확장되는 서비스를 구현합니다.</p></article></div></section>
+<section data-block-id="81000000-0000-4000-8000-000000000007" data-g7pb-motion="reveal" data-g7pb-motion-intensity="subtle" data-g7pb-motion-trigger="once" data-g7pb-motion-stagger="100" class="g7pb-block g7pb-testimonials g7pb-testimonials--wall g7pb-surface--default g7pb-spacing--normal g7pb-container-width--inherit g7pb-container-align--center g7pb-container-height--auto g7pb-container-vertical--start" data-testid="page-builder-rendered-block" data-block-type="testimonials"><header class="g7pb-section-heading"><p class="g7pb-section-eyebrow">함께 만든 변화</p><h2>팀 안에 실행 기준이 남았습니다 · 가상 사례</h2></header><div class="g7pb-testimonials__items"><blockquote><p class="g7pb-testimonials__rating" aria-label="5점 만점에 5점">★★★★★</p><div class="g7pb-testimonials__quote"><p>기획과 제작을 따로 설명하지 않아도 한 흐름으로 정리돼 의사결정이 빨라졌습니다.</p></div><footer><figure><img class="g7pb-testimonials__avatar" src="/modules/jiwonpapa-page_builder/store/previews/company-launch-customer-operations.webp" alt="고객 최민서의 프로필 사진" loading="lazy"></figure><cite><strong>최민서</strong><span class="g7pb-testimonial-role">브랜드 리드</span><i aria-hidden="true"> · </i><span class="g7pb-testimonial-company">리테일 팀</span></cite></footer></blockquote><blockquote><p class="g7pb-testimonials__rating" aria-label="5점 만점에 5점">★★★★★</p><div class="g7pb-testimonials__quote"><p>출시 이후 운영까지 고려한 기준을 함께 받아 내부 팀이 직접 개선할 수 있었습니다.</p></div><footer><figure><img class="g7pb-testimonials__avatar" src="/modules/jiwonpapa-page_builder/store/previews/company-launch-customer-founder.webp" alt="고객 정현우의 프로필 사진" loading="lazy"></figure><cite><strong>정현우</strong><span class="g7pb-testimonial-role">사업 책임자</span><i aria-hidden="true"> · </i><span class="g7pb-testimonial-company">B2B 서비스</span></cite></footer></blockquote></div></section>
+<section data-block-id="81000000-0000-4000-8000-000000000005" data-g7pb-motion="reveal" data-g7pb-motion-intensity="normal" data-g7pb-motion-trigger="once" data-g7pb-motion-stagger="100" class="g7pb-block g7pb-cta g7pb-cta--dark g7pb-cta--layout-panel g7pb-surface--contrast g7pb-spacing--spacious g7pb-container-width--inherit g7pb-container-align--center g7pb-container-height--auto g7pb-container-vertical--start" data-testid="page-builder-rendered-block" data-block-type="cta"><div class="g7pb-cta__copy"><p class="g7pb-cta__eyebrow">프로젝트 문의</p><h2 class="g7pb-cta__heading">다음 프로젝트를 시작할 준비가 되셨나요?</h2><p class="g7pb-cta__body">목표와 현재 상황을 알려주시면 필요한 범위부터 함께 정리합니다.</p></div><div class="g7pb-cta__actions"><a class="g7pb-button g7pb-button--primary" href="/contact">문의하기</a><a class="g7pb-button g7pb-button--secondary" href="#demo-action">로그인</a></div></section>
 </div>

diff --git a/tests/Unit/phase7PresetQuality.test.ts b/tests/Unit/phase7PresetQuality.test.ts
@@ -1,5 +1,8 @@
+import { readFileSync } from 'node:fs';
+import { resolve } from 'node:path';
 import { describe, expect, it } from 'vitest';
 import manifest from '../../resources/block-packs/builtin-core/manifest.json';
+import inventory from '../../docs/productization/inventory.json';
 import ledger from '../../docs/productization/phase-7-ledger.json';
 
 type Check = 'no-root-links' | 'no-instruction-copy' | 'media-present' | 'sample-claims';
@@ -12,9 +15,13 @@ interface LedgerItem {
   human_status: 'pending';
   release_status: 'blocked';
 }
+interface PageKitLedgerItem extends LedgerItem {
+  source: string;
+}
 interface Ledger {
   record_version: 'g7pb-phase-7-ledger/1';
   release_status: 'blocked';
+  page_kits: PageKitLedgerItem[];
   batches: Array<{ id: string; items: LedgerItem[] }>;
 }
 const qualityLedger = ledger as Ledger;
@@ -42,6 +49,10 @@ describe('phase 7 bounded preset quality ledger', () => {
     });
     expect(new Set(itemIds).size).toBe(itemIds.length);
     for (const id of itemIds) expect(presets.has(id), id).toBe(true);
+    expect(itemIds.toSorted()).toEqual(inventory.presets
+      .filter((item) => item.batch.startsWith('7-'))
+      .map((item) => item.id)
+      .toSorted());
   });
 
   it('applies each processed item check without fabricating human or release approval', () => {
@@ -63,6 +74,26 @@ describe('phase 7 bounded preset quality ledger', () => {
           }
           if (check === 'sample-claims') expect(JSON.stringify(props), item.id).toMatch(/샘플|예시|가상/);
         }
+      }
+    }
+  });
+
+  it('binds both remaining Page Kits to the same bounded checks and blocks release', () => {
+    expect(qualityLedger.page_kits.map((item) => item.id).toSorted())
+      .toEqual(['company-launch', 'event-launch']);
+    for (const item of qualityLedger.page_kits) {
+      expect(item.human_status, item.id).toBe('pending');
+      expect(item.release_status, item.id).toBe('blocked');
+      expect(item.reason.trim().length, item.id).toBeGreaterThan(0);
+      const document = JSON.parse(readFileSync(resolve(item.source), 'utf8')) as Json;
+      for (const check of item.checks) {
+        if (check === 'no-root-links') expect(values(document, /(?:url|Url)$/), item.id).not.toContain('/');
+        if (check === 'media-present') {
+          const media = values(document, /(?:src|Src)$/);
+          expect(media.length, item.id).toBeGreaterThan(0);
+          expect(media.every((source) => source.trim().length > 0), item.id).toBe(true);
+        }
+        if (check === 'sample-claims') expect(JSON.stringify(document), item.id).toMatch(/샘플|예시|가상/);
       }
     }
   });

diff --git a/CHANGELOG.md b/CHANGELOG.md
@@ -8,6 +8,7 @@
 
 ### Changed
 
+- 회사·행사 Page Kit의 루트 행동을 실제 경로로 연결하고 미확정 수치·인물·후기·일정을 가상 예시로 표시해 95개 프리셋과 5개 시작 페이지의 기술 정비 범위를 완료했습니다.
 - 공식 채널 프리셋을 예시로 명시하고 빈 공간 이미지 캐러셀을 로컬 자산으로 채웠습니다.
 - 지도·영상·행사·자료 프리셋의 미확정 정보와 외부 샘플을 예시로 명시하고 행사·자료 행동을 개별 경로로 연결했습니다.
 - 대형 인용형 고객 후기 프리셋을 가상 사례로 명시했습니다.
